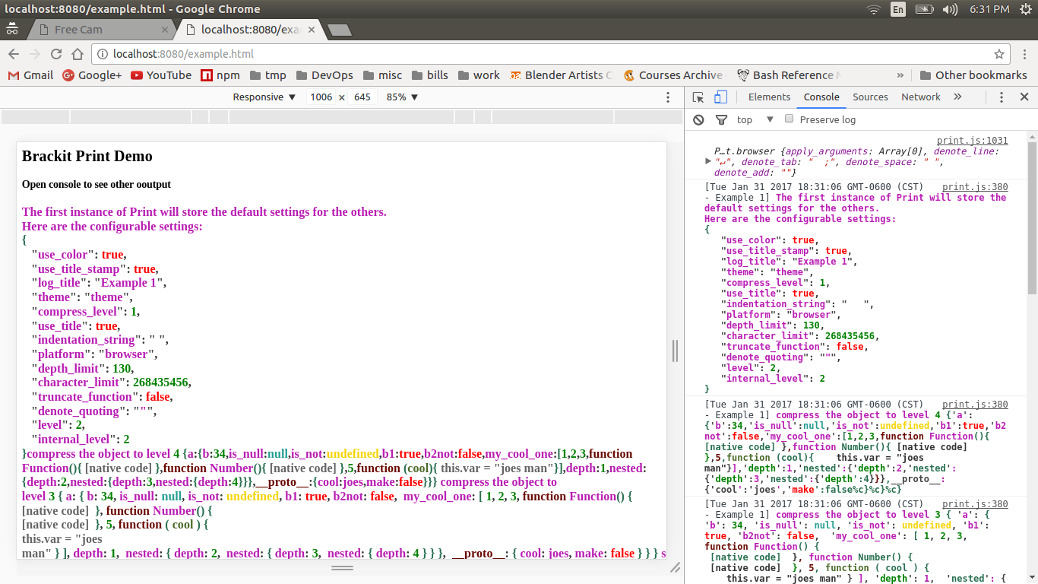
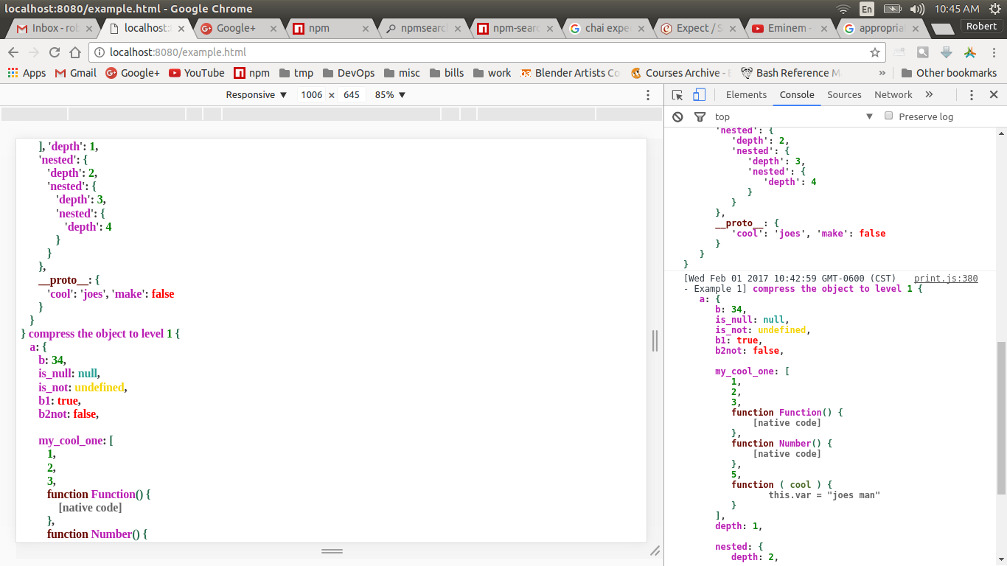
Fix to browser formating.

Changed region(s): [[0.0, 0.0, 1.0, 1.0], [0.0, 0.2403, 0.6465, 0.9912], [0.9851, 0.1502, 1.0, 0.1802]]

diff --git a/lib/print.js b/lib/print.js
@@ -374,7 +374,7 @@ Print.prototype.__defineGetter__("clear", function() {
 
        var c_args = [(color_copy.formated||color_copy.plain)+this.bufferize.formated]
        // append any css arguments if the browser segment of our custom bufferize object was utilized
-       if ( this.bufferize.apply_arguments && this.bufferize.apply_arguments.length )
+       if ( Object.prototype.toString.call(this.bufferize.apply_arguments).toLowerCase() === "[object array]" )
          c_args = c_args.concat(color_copy.apply_arguments).concat(this.bufferize.apply_arguments)
 
        console.log.apply(console, c_args)
@@ -463,7 +463,7 @@ Print.prototype.__defineGetter__("clear", function() {
     }
    if ( msg instanceof Print ) {
 
-     this._serialize(msg.toString())
+//     this._serialize(msg.toString())
    }
    else if ( msg === null ) {
 
@@ -930,15 +930,11 @@ Print._mapping = function(str, command_name) {
   if ( this.use_color ) {
     this.formated_index.push(this.formated.length)
     // The regex test will prevent colorization of values which do not contain a visable character.
-    if ( /\S/.test(plain) ) {
-      var theme = this[this.theme] && this.theme || this._installed_theme[0]
-      // Call the format function which is specified in the first level prototype of the constructor. The __proto__ holds the color_map values
-      // used as the theme. The first level proto type (this.quote, or this.namespace), holds the drawing command functions (Print.mapping), which
-      // have the same names as the color_map themes.
-      this.formated += this.format(plain, this.__proto__[theme][command_name])
-    } else {
-      this.formated += plain
-    }
+    var theme = this[this.theme] && this.theme || this._installed_theme[0]
+    // Call the format function which is specified in the first level prototype of the constructor. The __proto__ holds the color_map values
+    // used as the theme. The first level proto type (this.quote, or this.namespace), holds the drawing command functions (Print.mapping), which
+    // have the same names as the color_map themes.
+    this.formated += this.format(plain, this.__proto__[theme][command_name])
   }
 
   return this
@@ -1026,7 +1022,3 @@ Print.browser.prototype = color_map.html
 
 if ( typeof global === "object" && typeof module === "object" && typeof process === "object" )
   module.exports = Print
-
-var tt = Print()
-console.log(tt.bufferize)
-//console.log(Print().sp("ABC").bufferize.__proto__.__proto__[Print().bufferize.theme])// + this.level])

diff --git a/spec/advanced_printing_and_storage.js b/spec/advanced_printing_and_storage.js
@@ -1,0 +1,67 @@
+#!/usr/bin/env npm test
+var chai = require("chai"),
+expect = chai.expect
+var Print = require("../")
+
+describe("Internal storage", function() {
+
+	var s, str
+	Print.prototype.set_level = ""
+	beforeEach(function() {
+
+		s = Print({compress_level: 4}).sp({cool: "joes"})
+		str = s.new_copy()
+	})
+
+	it("serializes the global Object in the node environment and truncated it to 1.01 megabytes", function() {
+
+		expect(s.new_copy({use_color: false, compress_level: 3, character_limit: 101000}).sp(global).toString().length).to.equal(101000)
+	})
+	it("serializes objects with manually added __proto__ chains", function() {
+
+		var a = {aa: "str", bb: "joes", __proto__: {here: 22, there: 55}}
+		var b = {aa: "str", bb: "joes"}//, __proto__: {here: 22, there: 55}}
+		var c = {__proto__: {here: 22, there: 55}}
+		var d = {__proto__: {here: 22, __proto__: {cool: "joes", yep: 6}, there: 55}}
+		// Create a top-level copy of the Print library which does not store text internally untill a print command is used.
+		var up = s.new_copy()
+
+		expect(up.sp(a).toString()).to.equal('{"aa":"str","bb":"joes",__proto__:{"here":22,"there":55}}')
+		expect(up.sp(b).toString()).to.equal('{"aa":"str","bb":"joes"}')
+		expect(up.sp(c).toString()).to.equal('{__proto__:{"here":22,"there":55}}')
+		expect(up.sp(d).toString()).to.equal('{__proto__:{"here":22,"there":55,__proto__:{"cool":"joes","yep":6}}}')
+		expect(up.sp({}).toString()).to.equal('{}')
+
+	})
+	it.skip("serializes objects with manually added empty __proto__ Objects", function() {
+
+		expect(up.toString({__proto__:{}})).to.equal('{__proto__:{}}')
+	})
+	it("serializes objects Object.prototype __proto__ chains", function() {
+
+		var F = function() {
+			this.cool = "joes"
+		}
+
+		F.prototype = {
+			see: function() {
+				Print().log("me")
+			}
+		}
+		expect(str.toString(new F())).to.equal('{"cool":"joes",__proto__:{"see":function (){\t\t\t\tPrint().log("me")}}}')
+
+		F.prototype = {
+			see: function() {
+				Print().log("me")
+			},
+			here: function() {
+				Print().log("there")
+			}
+		}
+		expect(str.toString(new F())).to.equal('{"cool":"joes",__proto__:{"see":function (){\t\t\t\tPrint().log("me")},"here":function (){\t\t\t\tPrint().log("there")}}}')
+		var a = new F()
+		a.more = "stuff"
+		expect(str.toString(a)).to.equal('{"cool":"joes","more":"stuff",__proto__:{"see":function (){\t\t\t\tPrint().log("me")},"here":function (){\t\t\t\tPrint().log("there")}}}')
+
+	})
+})

diff --git a/spec/basic_printing_and_storage.js b/spec/basic_printing_and_storage.js
@@ -41,6 +41,7 @@ describe("Internal storage", function() {
 		expect(s.clear().set_option({compress_level: 4}).sp(Function).toString()).to.equal('function Function(){ [native code] }')
 		expect(s.clear().set_option({compress_level: 3}).sp(Number).toString()).to.equal('function Number() { \n [native code]  }')
 		expect(s.clear().set_option({compress_level: 2}).sp(String).toString()).to.equal('function String() { \n    [native code] \n}')
+		expect(s.clear().set_option({compress_level: 2}).sp(RegExp).toString()).to.equal('function RegExp() { \n    [native code] \n}')
 
 		expect(s.clear().set_option({compress_level: 4}).toString(Object).toString()).to.equal('function Object(){ [native code] }')
 		expect(s.clear().set_option({compress_level: 3}).sp(Object).toString()).to.equal('function Object() { \n [native code]  }')
@@ -80,21 +81,6 @@ describe("Internal storage", function() {
 		obj_a.prop_a = true
 		expect(Print().set_option({compress_level: 4, use_title: false}).toString(obj)).to.equal('{[[PrimitiveValue]]:0,"one":1}')
 		expect(Print().set_option({compress_level: 4, use_title: false}).toString(obj_a)).to.equal('{[[PrimitiveValue]]:"aa","0":"a","1":"a","prop_a":true,length:2}')
-	})
-	it("serializes objects with __proto__ chains", function() {
-
-		var a = {aa: "str", bb: "joes", __proto__: {here: 22, there: 55}}
-		var b = {aa: "str", bb: "joes"}//, __proto__: {here: 22, there: 55}}
-		var c = {__proto__: {here: 22, there: 55}}
-		var d = {__proto__: {here: 22, __proto__: {cool: "joes", yep: 6}, there: 55}}
-		// Create a top-level copy of the Print library which does not store text internally untill a print command is used.
-		var up = s.new_copy()
-
-		expect(up.sp(a).toString()).to.equal('{"aa":"str","bb":"joes",__proto__:{"here":22,"there":55}}')
-		expect(up.sp(b).toString()).to.equal('{"aa":"str","bb":"joes"}')
-		expect(up.sp(c).toString()).to.equal('{__proto__:{"here":22,"there":55}}')
-		expect(up.sp(d).toString()).to.equal('{__proto__:{"here":22,"there":55,__proto__:{"cool":"joes","yep":6}}}')
-		expect(up.sp({}).toString()).to.equal('{}')
 	})
 	it("Clears stored text data with the clear() command", function() {
 

diff --git a/spec/internal_members.js b/spec/internal_members.js
@@ -1,0 +1,26 @@
+#!/usr/bin/env npm test
+var chai = require("chai"),
+expect = chai.expect
+var Print = require("../")
+
+describe("Internal memeber", function() {
+
+	var up
+	Print.prototype.set_level = ""
+
+	it("bufferize instances are created according to platform", function() {
+
+		var up = Print().set_option({platform: "browser"})
+		//console.log(111, Print[up.platform])
+		expect(up.bufferize).to.be.an.instanceof(Print[Print().platform])
+		expect(up.sp("").bufferize).to.be.an.instanceof(Print[up.platform])
+		expect(up.bufferize).to.be.an.instanceof(Print[up.platform])
+		up.set_option({platform: "html"})
+		expect(up.sp(null).bufferize).to.be.an.instanceof(Print[up.platform])
+	})
+	it.skip("bufferize uses themes according to set option", function() {
+
+		var up = Print({platform: "browser"})
+		expect(up.sp("TEXT").toColorString()).to.equal("%cTEXT"+up.bufferize.__proto__.__proto__[up.bufferize.theme].string)
+	})
+})

diff --git a/spec/option_handling.js b/spec/option_handling.js
@@ -68,10 +68,6 @@ describe("Options", function() {
 		expect(s.new_copy().set_option({compress_level: 3, character_limit: 1}).sp(b).toString().length).to.equal(1)
 		expect(s.new_copy().set_option({compress_level: 4, character_limit: 1}).sp(b).toString().length).to.equal(1)
 	})
-	it("will serialize the global Object in the node environment and truncated it to 1.01 megabytes", function() {
-
-		expect(s.new_copy({use_color: false, compress_level: 3, character_limit: 101000}).sp(global).toString().length).to.equal(101000)
-	})
 	it("utilize the depth_limit", function() {
 
 		var a

diff --git a/docs/README.md b/docs/README.md
@@ -1,26 +1,32 @@
 # **Brackit Print**
 ![Brackit](https://raw.githubusercontent.com/restarian/brackit/master/Open_source/doc/image/Brackit_icon_250px.png)
 
-### Brackit Print is an ECMA serialization and logging tool with colorful and plain text output for the terminal and browser.
+### Brackit Print is an ECMA serialization and logging tool with colorful and plain text output for the terminal and browser console and HTML.
 **Author: Robert Steckroth**  
 ..a part of the brackit open-source suite
 __________
 
-Operates with an advanced ECMA prototype chain to deliver a versatile and intuitive utility.
+- Operates with an advanced ECMA prototype chain to deliver a versatile and intuitive utility.
 -----
 
-Safe! Able to serialize the entire nodejs global Object without hiccups (in about 65ms).
+- Stable! Brackit Print can serialize massive Objects without hiccups.
 -----
 
-Uses a comprehensive level mechanism to control what is serialized with a nearly total overhead discharge.
+- Uses a comprehensive level mechanism to control what is logged with a nearly total overhead discharge.
 -----
 
-Provides themes on a global and per level basis.
+- Provides syntax theming on a global and per level basis.
+-----
+
+- Serializes ECMA script *(almost entirely)*.
+-----
+
+- Cross platform auto-detection for Linux terminal, Firefox and Chrome.
 -----
 
 ![Brackit](https://bitbucket.org/surgemcgee/brackit_print/raw/master/docs/images/terminal_pic_1.jpg)
 ![Brackit](https://bitbucket.org/surgemcgee/brackit_print/raw/master/docs/images/browser_pic_1.jpg)
-![Brackit](https://bitbucket.org/surgemcgee/brackit_print/raw/master/docs/images/browser_pic_2.jpg)
+![Brackit](https://bitbucket.org/surgemcgee/brackit_print/raw/master/docs/images/browser_pic_3.jpg)
 
 __________
 
